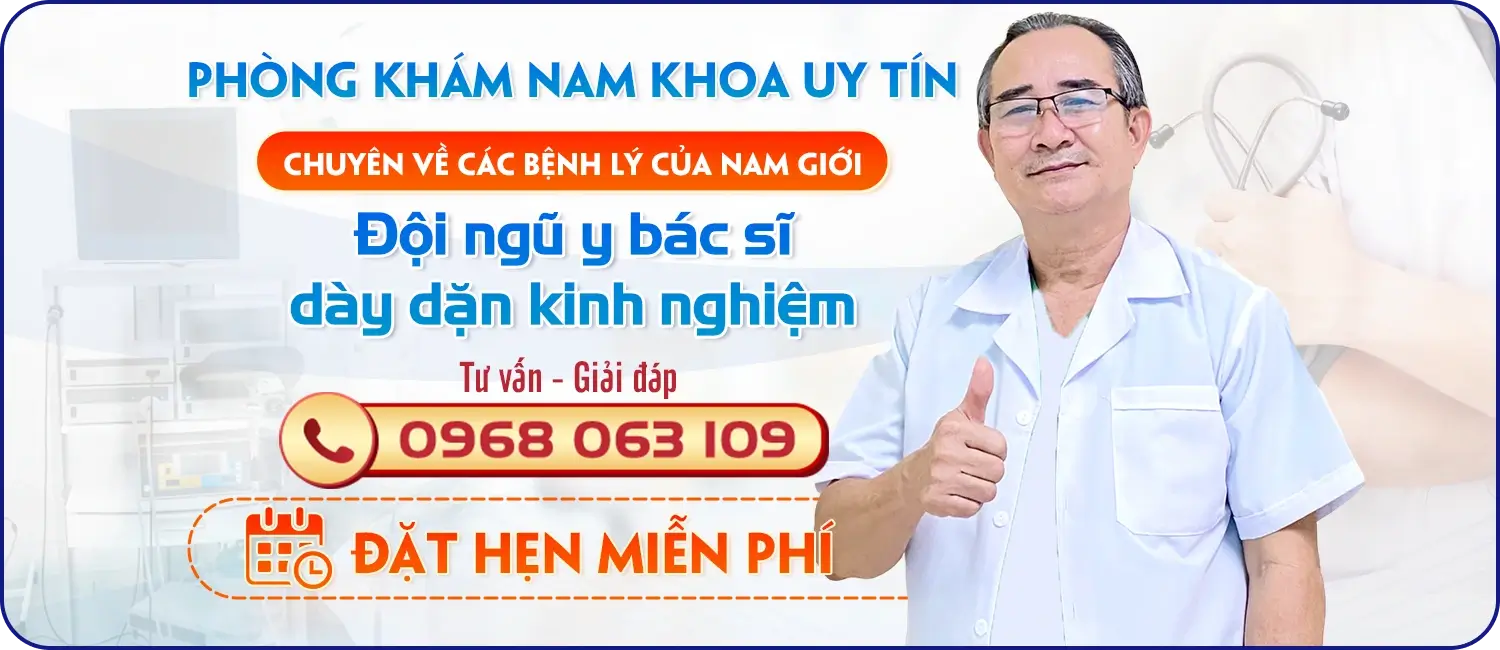
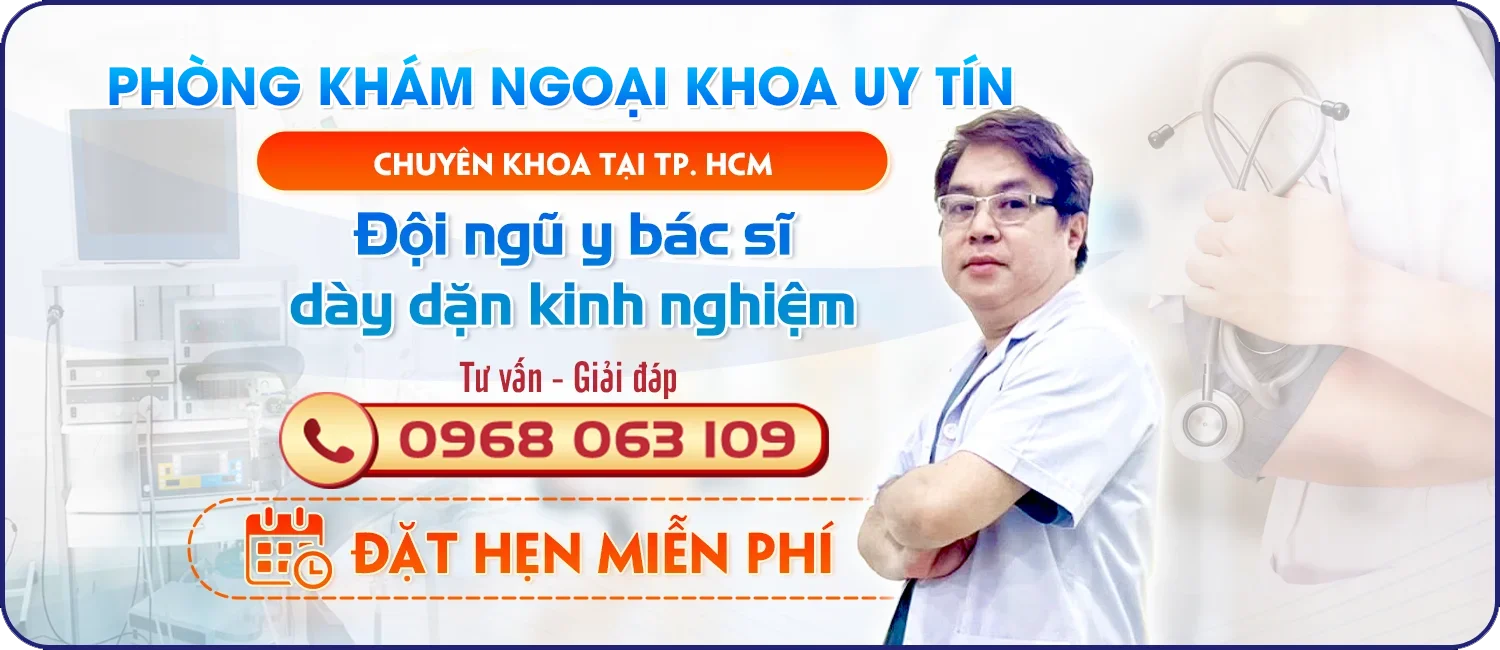
update

diff --git a/css/trang_chu.min.css b/css/trang_chu.min.css
@@ -38,7 +38,7 @@
 .vision__right-top-body div,
 .vision__right-bottom-body > div{
     font-size: var(--font-size-16);
-    line-height: 28px;
+    line-height: 26px;
     text-align: left;
     padding: 10px;
 

diff --git a/index.php b/index.php
@@ -18,7 +18,7 @@
                         <img width="100%" height="auto" src="<?php echo $local ?>/images/icons/icon_chat.webp" alt="chat top">
                         <div class="vision__right-top-body">
                             <strong>TẦM NHÌN</strong>
-                            <div>  Chuyên khoa An Đông đã được thành lập và định hướng phát triển theo tiêu chuẩn y khoa , tiện ích và nhân văn. Từ đó, trở thành điểm đến tin cậy của nhiều bệnh nhân tại thành phố cũng như các tỉnh lân cận.  </div>
+                            <div>  Phòng khám khoa ngoại thuộc công ty tnhh Phòng Khám Đa Khoa An Đông đã được thành lập và định hướng phát triển theo tiêu chuẩn y khoa , tiện ích và nhân văn. Từ đó, trở thành điểm đến tin cậy của nhiều bệnh nhân tại thành phố cũng như các tỉnh lân cận.  </div>
                         </div>
                     </div>
                     <div class="vision__right-bottom">
@@ -37,7 +37,7 @@
                 <div class="vision__mobile-body" >
                     <div class="vision__mobile-body-title">Tầm Nhìn & Sứ mệnh</div>
                     <img width="100%" height="auto" src="<?php echo $local ?>/images/icons/icon_line.webp" alt="line">
-                    <p>Chuyên khoa An Đông – 360, An Dương Vương, P.4, Q.5, TPHCM đã được thành lập và định hướng phát triển theo tiêu chuẩn y khoa quốc tế, tiện ích và nhân văn. Từ đó, trở thành điểm đến tin cậy của nhiều bệnh nhân tại thành phố cũng như các tỉnh lân cận.
+                    <p>Phòng khám khoa ngoại thuộc công ty tnhh Phòng Khám Đa Khoa An Đông đã được thành lập và định hướng phát triển theo tiêu chuẩn y khoa , tiện ích và nhân văn. Từ đó, trở thành điểm đến tin cậy của nhiều bệnh nhân tại thành phố cũng như các tỉnh lân cận.
                     Sứ mệnh vì một cộng đồng mạnh khỏe, vui sống và an nhiên. Chuyên khoa An Đông luôn nỗ lực để xây dựng một thương hiệu chăm sóc sức khỏe với hàm lượng tri thức, khoa học và công nghệ hiện đại. Mỗi dịch vụ y tế đều hướng tới tính tiện ích, hiệu quả và có ý nghĩa trong cuộc sống con người.</p>
                 </div>
                 <img  width="100%" height="auto" src="<?php echo $local ?>/images/banner/banner-small.webp" alt="...">
